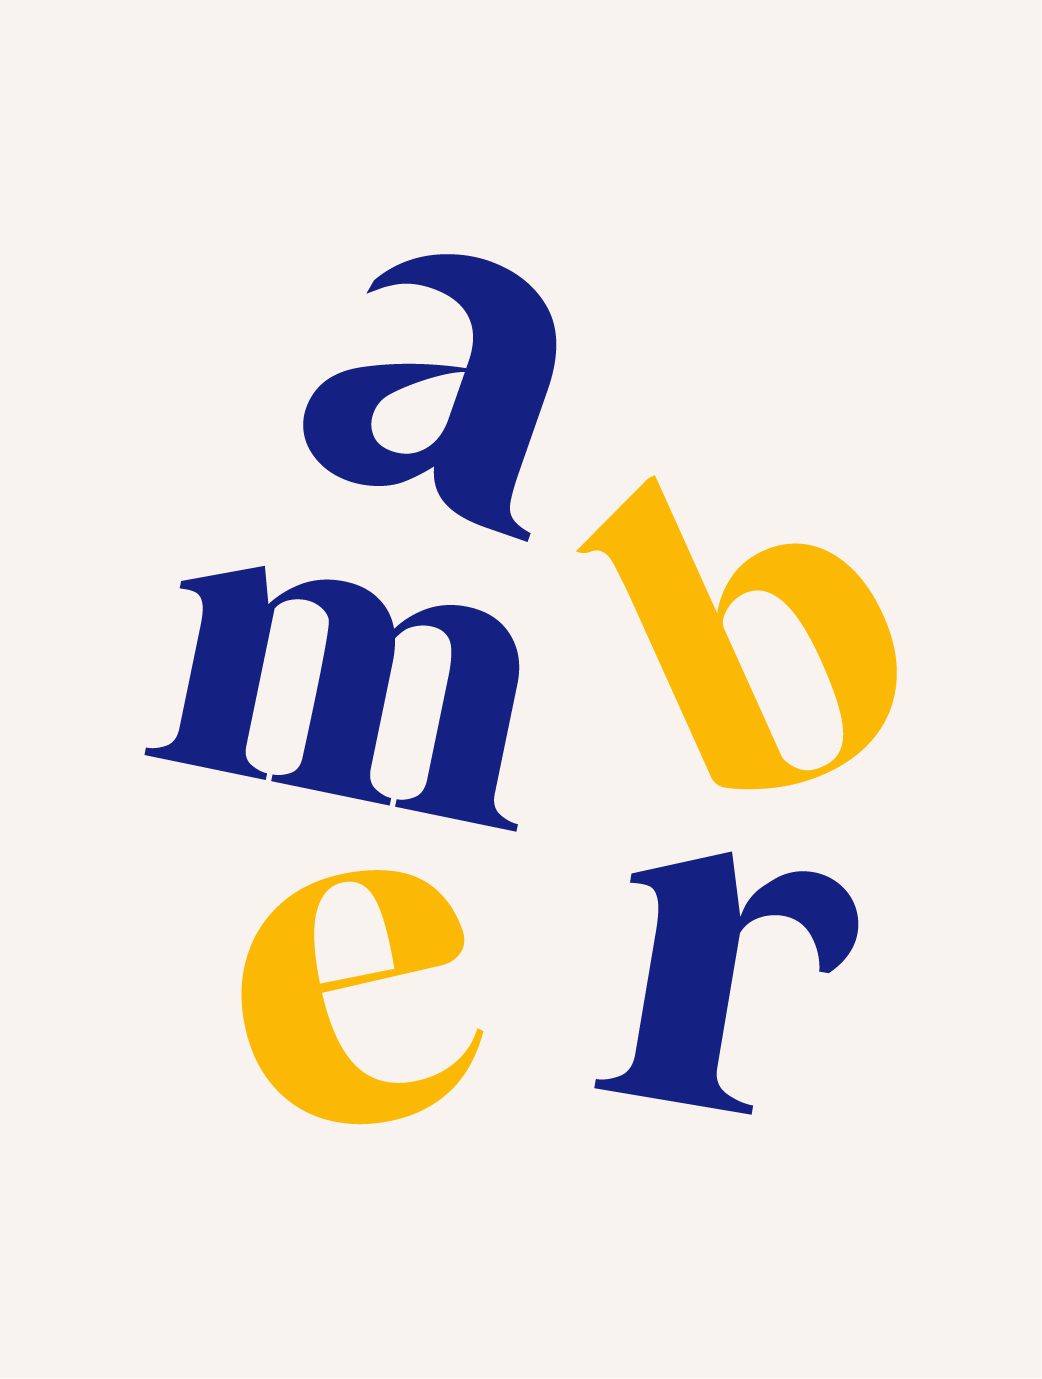
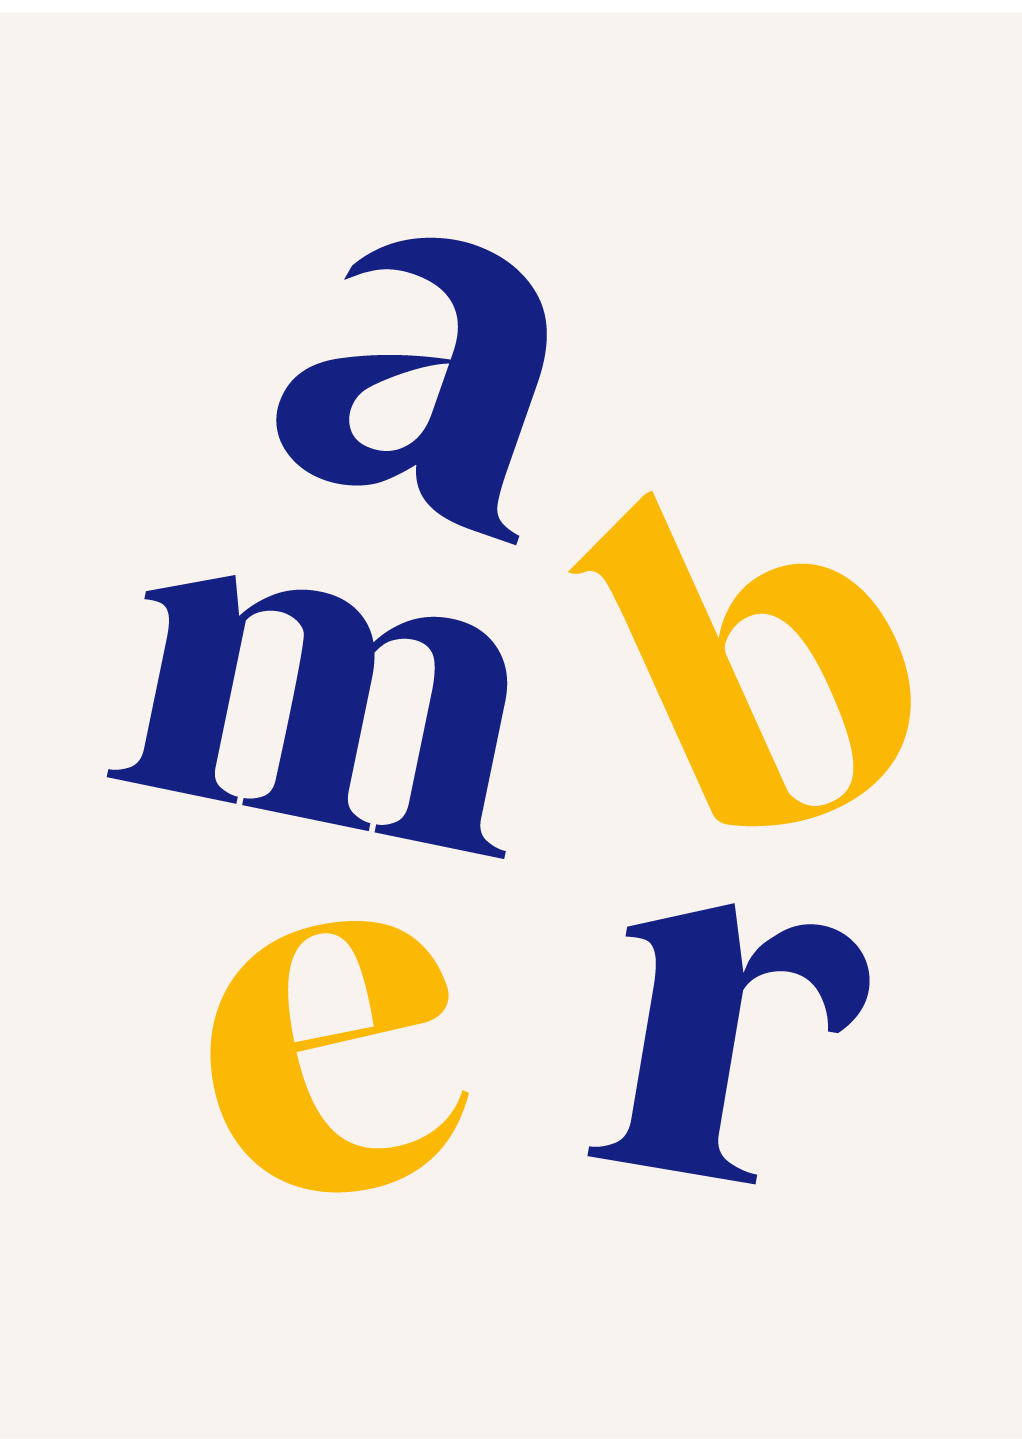
update amber imgs

diff --git a/projects/casestudies/amber.html b/projects/casestudies/amber.html
@@ -53,7 +53,7 @@
   <!------------- P R O J E C T S ------------->
 <section>
     <div class="casestudy-header-image">
-        <img src="../casestudies/casestudy_imgs/reverb/reverb_hero.png" alt="Reverb banner in the wild">
+        <img src="../casestudies/casestudy_imgs/amber/amber_hero.png" alt="Reverb banner in the wild">
     </div> 
     
     <div class="casestudy">  
@@ -74,32 +74,44 @@
         </div>  
 
         <div class="casestudy-paragraph">
-            <p>Reverb Sound is an up-and-coming Montreal-based company specializing in experimental audio. They are known for creating interactive sound installations that push the boundaries of our auditory experiences.</p>
+            <p>Amber is a family-fun independent coffee roaster based in Bushwick, Brooklyn. Since 1987 the family business have been have provide the finest coffee beans imported form verified and sustainable sources.</p>
             <p>Inspired by Swiss design and modern street style, this project plays heavily with the balance between minimalism and repetition to communicate Reverb's  cutting-edge approach to sound.
             </p>
         </div>
 
 
-        <div class="casestudy-images">
+        <div class="casestudy-images two-column-row">
+            <div class="grid-3-4">
+                <img src="../casestudies/casestudy_imgs/amber/shop interior.png" alt="Prismatic Venue Page Summary">
+            </div>
+
+            <div class="grid-3-4">
+                <img src="../casestudies/casestudy_imgs/amber/amber_submark.png" alt="Prismatic Venue location info">
+                <!-- <p class="image-caption">An artist page with a call-to-action button</p> -->
+            </div> 
+            
+
             <div class="grid-span">
-                <img src="../casestudies/casestudy_imgs/amber/business_cards_mockup.png" alt="Amber loyalty card mockup">
+                <img src="../casestudies/casestudy_imgs/amber/pattern.png" alt="Reverb color palette">
             </div>
             <div class="grid-span">
-                <img src="../casestudies/casestudy_imgs/reverb/reverb_logo-breakdown.png" alt="Reverb logo breakdown">
+                <img src="../casestudies/casestudy_imgs/amber/stickers.png" alt="Reverb color palette">
             </div>
+
             <div class="grid-span">
-                <img src="../casestudies/casestudy_imgs/reverb/reverb_logo.png" alt="Reverb logo">
+                <img src="../casestudies/casestudy_imgs/amber/stickers_1.png" alt="Reverb color palette">
             </div>
-            <div class="grid-span">
-                <img src="../casestudies/casestudy_imgs/reverb/business_card_mockup.png" alt="Reverb business card mockup">
-            </div>
-            <div class="grid-span">
-                <img src="../casestudies/casestudy_imgs/reverb/business_card _mockup _rust.png" alt="Reverb business card mockup in Rust">
-            </div>
-            <div class="grid-span">
-                <img src="../casestudies/casestudy_imgs/reverb/reverb_colors.png" alt="Reverb color palette">
-            </div>
-              
+
+            <div class="grid-3-4">
+                <img src="../casestudies/casestudy_imgs/amber/letter pattern.png" alt="Prismatic Venue Page Summary">
+            </div>  
+           
+           
+
+            <div class="grid-3-4">
+                <img src="../casestudies/casestudy_imgs/amber/amber_submark.png" alt="Prismatic Venue location info">
+                <!-- <p class="image-caption">An artist page with a call-to-action button</p> -->
+            </div> 
         </div> 
 
         <!-- <div class="row casestudy-link bottom-casestudy-link cfat-bottom-link">

diff --git a/projects/casestudies/reverb.html b/projects/casestudies/reverb.html
@@ -110,7 +110,7 @@
 
     <div class=" row next-steps">
         <a class="next-steps-link" href="../index.html">&#x21b5; Return to Project Gallery</a>
-        <a class="next-steps-link" href="../casestudies/jackhabbit.html">Next Project: JackHabbit Logo & Website Revamp &#x2192;</a>
+        <a class="next-steps-link" href="../casestudies/amber.html">Next Project: Amber Coffee House &#x2192;</a>
 
     </div>
        

diff --git a/css/projects.css b/css/projects.css
@@ -485,7 +485,12 @@ a:-webkit-any-link {
     grid-gap: 15px;
     grid-template-columns: 4fr 3fr;
     align-items: center;
+    max-width: 1300px;
   }
+
+  .two-column-row {
+    grid-template-columns: 1fr 1fr;
+}
 
   .double-image-row {
     grid-template-rows: 1fr 1fr;
